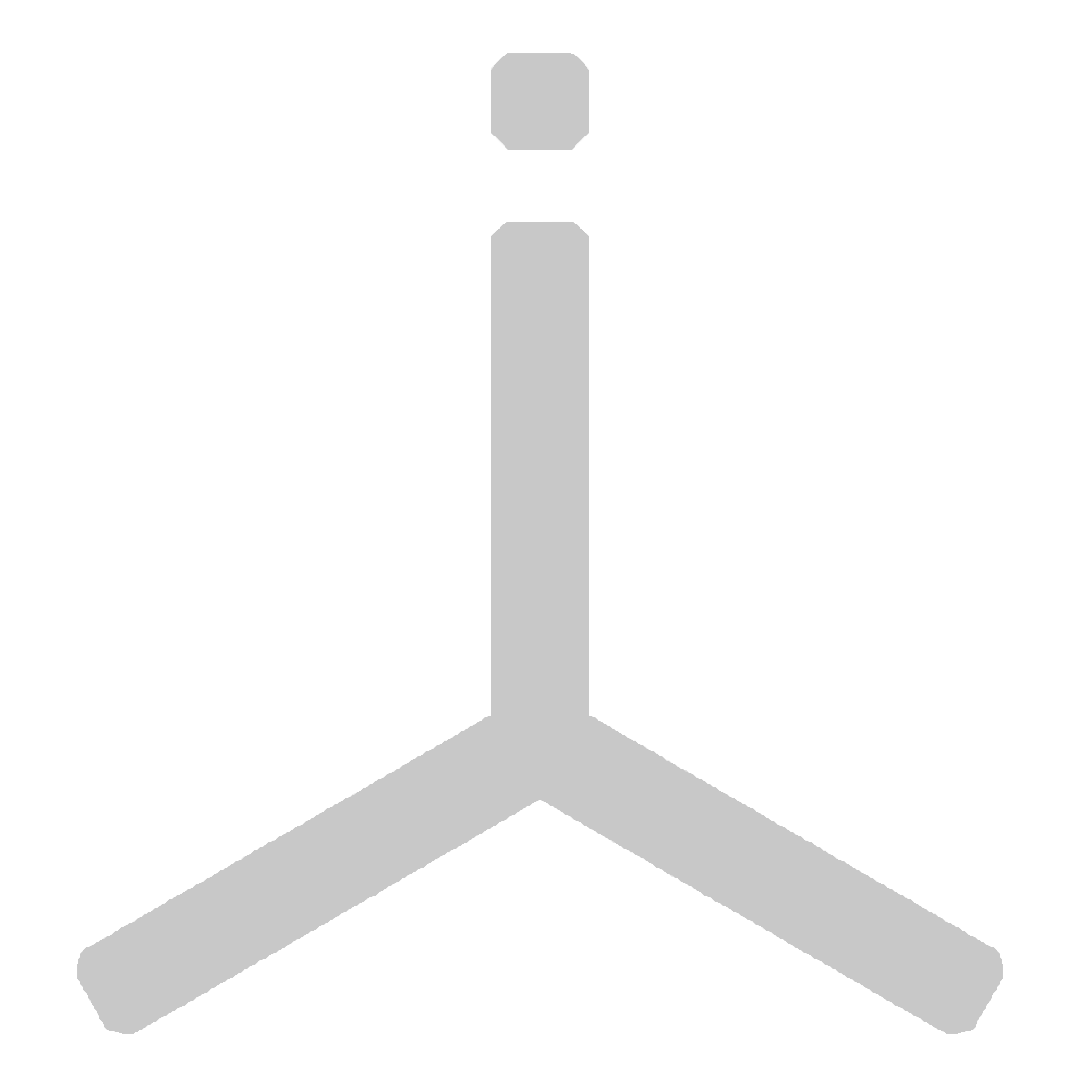
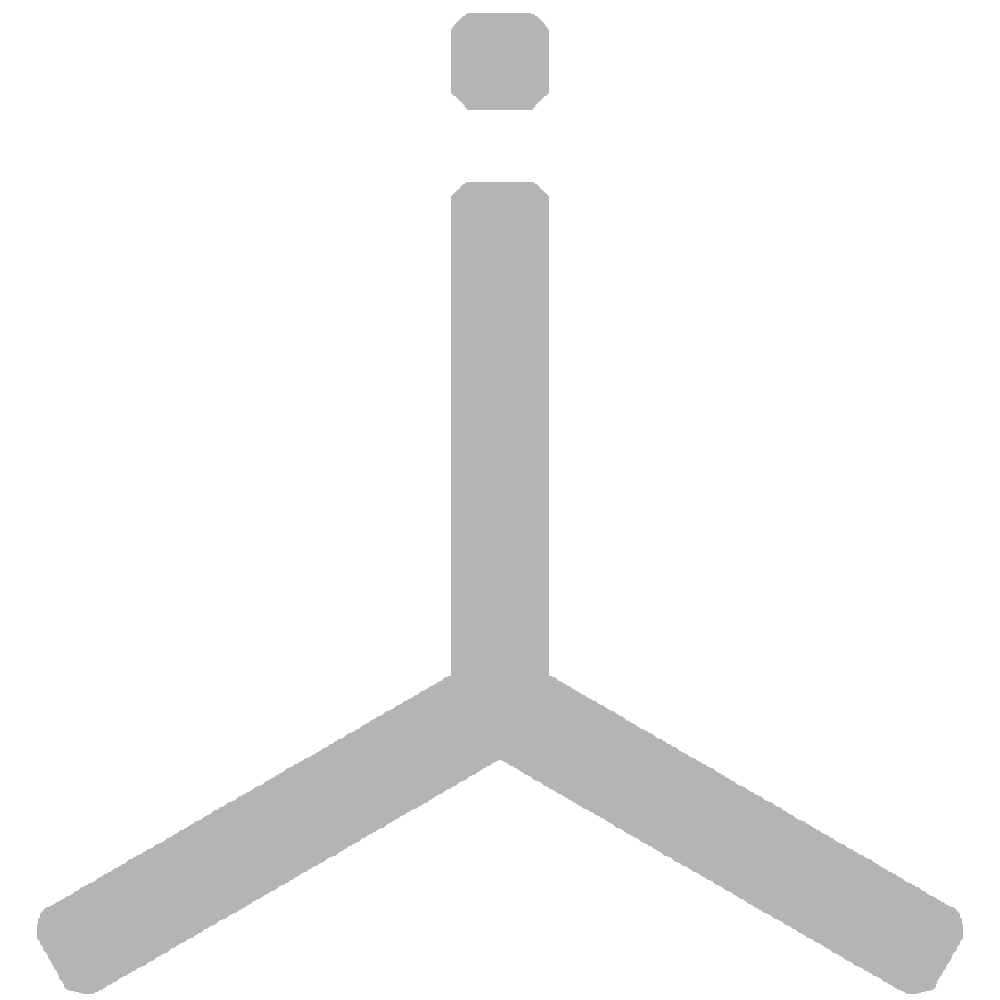
Added dynamic main ProgressBar GUI collapse

diff --git a/src/main/java/com/i_comit/windows/Main.java b/src/main/java/com/i_comit/windows/Main.java
@@ -4,6 +4,7 @@
  */
 package com.i_comit.windows;
 
+import static com.i_comit.windows.DriveCheck.goWebsite;
 import static com.i_comit.windows.Statics.*;
 import java.awt.Color;
 import java.awt.Toolkit;
@@ -27,9 +28,9 @@ import javax.swing.UnsupportedLookAndFeelException;
  */
 public class Main extends javax.swing.JFrame {
 
-    public static String root = "D:\\";
+    public static String root = "";
     public static String masterFolder = "--------\\";
-    public static String version = "1.6.6";
+    private static final String appVersion = "1.6.6";
 
     public Main() {
         root = Paths.get("").toAbsolutePath().toString();
@@ -54,7 +55,6 @@ public class Main extends javax.swing.JFrame {
                     ex.printStackTrace();
                 }
             }
-            setKeybinding();
             jStorePanel.setVisible(true);
             jSendPanel.setVisible(false);
             jReceivePanel.setVisible(false);
@@ -65,10 +65,10 @@ public class Main extends javax.swing.JFrame {
             if (!keyFile.exists()) {
                 jToolPanel.setVisible(false);
                 loginLabelVisibleBool(false);
-                jTextArea3.setCaretPosition(0);
-                this.setSize(540, 245);
+                this.setSize(540, 241);
                 this.setLocationRelativeTo(null);
             } else {
+                setKeybinding();
                 loginLabelVisibleBool(true);
                 jUsernameLabel.setText("enter username");
                 jPasswordLabel.setText("enter password");
@@ -198,7 +198,7 @@ public class Main extends javax.swing.JFrame {
         GUI.getGB();
         jEULAPanel1.setVisible(false);
         jEULAPanel.setVisible(false);
-        this.setSize(120, 245);
+        this.setSize(120, 241);
         this.setLocationRelativeTo(null);
         System.out.println("Your available Memory Heap is " + Memory.byteFormatter(Memory.heapSize));
         File rootFolder = Paths.get(root + masterFolder + folderName).toFile();
@@ -208,7 +208,7 @@ public class Main extends javax.swing.JFrame {
             GUI.labelCutterThread(jAlertLabel, "i-ncript folder created", 40, 40, 1200, false);
             rootFolder.mkdir();
         } else {
-            GUI.labelCutterThread(jAlertLabel, "developed by i-comit LLC", 40, 60, 1200, true);
+            GUI.labelCutterThread(jAlertLabel1, goWebsite(jAlertLabel1, "developed by ", "https://i-comit.com", "i-comit LLC"), 0, 20, 600, true);
         }
         if (!sendFolderF.exists()) {
             sendFolderF.mkdir();
@@ -279,6 +279,7 @@ public class Main extends javax.swing.JFrame {
         jProgressBar1 = new javax.swing.JProgressBar();
         jLabel1 = new javax.swing.JLabel();
         jLabel3 = new javax.swing.JLabel();
+        jAlertLabel1 = new javax.swing.JLabel();
         jAlertLabel = new javax.swing.JLabel();
         jCreationDateLabel = new javax.swing.JLabel();
         jFileSizeLabel = new javax.swing.JLabel();
@@ -319,7 +320,7 @@ public class Main extends javax.swing.JFrame {
 
         setDefaultCloseOperation(javax.swing.WindowConstants.EXIT_ON_CLOSE);
         setTitle("\ti-ncript™");
-        setIconImage(Toolkit.getDefaultToolkit().getImage(getClass().getResource("/i-comiti1.png")));
+        setIconImage(Toolkit.getDefaultToolkit().getImage(getClass().getResource("/i-comiti.png")));
         setMinimumSize(new java.awt.Dimension(295, 225));
         setModalExclusionType(java.awt.Dialog.ModalExclusionType.APPLICATION_EXCLUDE);
         setResizable(false);
@@ -443,13 +444,10 @@ public class Main extends javax.swing.JFrame {
                 .addGroup(jStorePanelLayout.createParallelGroup(javax.swing.GroupLayout.Alignment.LEADING)
                     .addComponent(jToggleButton1, javax.swing.GroupLayout.PREFERRED_SIZE, 22, javax.swing.GroupLayout.PREFERRED_SIZE)
                     .addComponent(jToggleButton2, javax.swing.GroupLayout.PREFERRED_SIZE, 22, javax.swing.GroupLayout.PREFERRED_SIZE))
+                .addGap(12, 12, 12)
                 .addGroup(jStorePanelLayout.createParallelGroup(javax.swing.GroupLayout.Alignment.LEADING)
-                    .addGroup(jStorePanelLayout.createSequentialGroup()
-                        .addGap(12, 12, 12)
-                        .addComponent(jRadioButton0))
-                    .addGroup(jStorePanelLayout.createSequentialGroup()
-                        .addGap(12, 12, 12)
-                        .addComponent(jRadioButton1))))
+                    .addComponent(jRadioButton0)
+                    .addComponent(jRadioButton1)))
         );
 
         jToolPanel.add(jStorePanel, new org.netbeans.lib.awtextra.AbsoluteConstraints(0, 0, -1, -1));
@@ -591,12 +589,17 @@ public class Main extends javax.swing.JFrame {
         jProgressBar1.setFont(new java.awt.Font("Polentical Neon", 0, 12)); // NOI18N
         jProgressBar1.setForeground(Color.WHITE);
         jProgressBar1.setBorder(null);
+        jProgressBar1.addChangeListener(new javax.swing.event.ChangeListener() {
+            public void stateChanged(javax.swing.event.ChangeEvent evt) {
+                jProgressBar1StateChanged(evt);
+            }
+        });
         getContentPane().add(jProgressBar1);
-        jProgressBar1.setBounds(22, 200, 724, 17);
+        jProgressBar1.setBounds(22, 204, 724, 17);
 
         jLabel1.setFont(new java.awt.Font("Polentical Neon", 0, 18)); // NOI18N
         jLabel1.setHorizontalAlignment(javax.swing.SwingConstants.LEFT);
-        jLabel1.setText(Main.version);
+        jLabel1.setText(Main.appVersion);
         jLabel1.setHorizontalTextPosition(javax.swing.SwingConstants.LEADING);
         getContentPane().add(jLabel1);
         jLabel1.setBounds(23, 4, 135, 30);
@@ -608,9 +611,13 @@ public class Main extends javax.swing.JFrame {
         getContentPane().add(jLabel3);
         jLabel3.setBounds(125, 4, 135, 30);
 
+        jAlertLabel1.setFont(new java.awt.Font("Polentical Neon", 0, 13)); // NOI18N
+        jAlertLabel1.setHorizontalAlignment(javax.swing.SwingConstants.CENTER);
+        getContentPane().add(jAlertLabel1);
+        jAlertLabel1.setBounds(21, 174, 236, 27);
+
         jAlertLabel.setFont(new java.awt.Font("Polentical Neon", 0, 13)); // NOI18N
         jAlertLabel.setHorizontalAlignment(javax.swing.SwingConstants.CENTER);
-        jAlertLabel.setText("jLabel2");
         getContentPane().add(jAlertLabel);
         jAlertLabel.setBounds(21, 174, 236, 27);
 
@@ -627,7 +634,7 @@ public class Main extends javax.swing.JFrame {
 
         jTabbedPane1.setTabPlacement(javax.swing.JTabbedPane.BOTTOM);
         jTabbedPane1.setFocusable(false);
-        jTabbedPane1.setPreferredSize(new java.awt.Dimension(225, 190));
+        jTabbedPane1.setPreferredSize(new java.awt.Dimension(224, 190));
 
         jPanel2.setBackground(new java.awt.Color(57, 57, 57));
         jPanel2.setBorder(javax.swing.BorderFactory.createLineBorder(new java.awt.Color(75, 110, 175)));
@@ -782,7 +789,7 @@ public class Main extends javax.swing.JFrame {
         jTabbedPane1.addTab("HELP", jPanel4);
 
         getContentPane().add(jTabbedPane1);
-        jTabbedPane1.setBounds(520, 12, 225, 190);
+        jTabbedPane1.setBounds(520, 12, 224, 190);
 
         jEULAPanel.setLayout(new org.netbeans.lib.awtextra.AbsoluteLayout());
 
@@ -888,7 +895,7 @@ public class Main extends javax.swing.JFrame {
         getContentPane().add(jScrollPane5);
         jScrollPane5.setBounds(22, 12, 225, 160);
 
-        setSize(new java.awt.Dimension(775, 232));
+        setSize(new java.awt.Dimension(775, 234));
         setLocationRelativeTo(null);
     }// </editor-fold>//GEN-END:initComponents
     //DECRYPT
@@ -904,12 +911,11 @@ public class Main extends javax.swing.JFrame {
     private void jButton1ActionPerformed(java.awt.event.ActionEvent evt) {//GEN-FIRST:event_jButton1ActionPerformed
         if (Login.loginCheck()) {
             if (Login.verifyLogin()) {
-                this.setSize(780, 245);
+                this.setSize(780, 241);
                 jLabel1.setLocation(266, 4);
                 jLabel3.setLocation(368, 4);
-                jAlertLabel.setLocation(268, 174);
+                jAlertLabel.setLocation(266, 174);
                 this.setLocationRelativeTo(null);
-                this.setSize(780, 260);
                 jScrollPane5.setVisible(true);
             }
         }
@@ -937,12 +943,11 @@ public class Main extends javax.swing.JFrame {
         if (evt.getKeyCode() == KeyEvent.VK_ENTER) {
             if (Login.loginCheck()) {
                 if (Login.verifyLogin()) {
-                    this.setSize(780, 245);
+                    this.setSize(780, 241);
                     jLabel1.setLocation(266, 4);
                     jLabel3.setLocation(368, 4);
-                    jAlertLabel.setLocation(268, 174);
+                    jAlertLabel.setLocation(266, 174);
                     this.setLocationRelativeTo(null);
-                    this.setSize(780, 260);
                     jScrollPane5.setVisible(true);
                 }
             }
@@ -1070,6 +1075,20 @@ public class Main extends javax.swing.JFrame {
         System.out.println("focus regained");
         jToolPanel.requestFocus();        // TODO add your handling code here:
     }//GEN-LAST:event_formMousePressed
+
+    public boolean progressbarBool = false;
+
+    private void jProgressBar1StateChanged(javax.swing.event.ChangeEvent evt) {//GEN-FIRST:event_jProgressBar1StateChanged
+        if (jProgressBar1.getValue() == 0) {
+            progressbarBool = false;
+            this.setSize(780, 241);
+        } else {
+            if (!progressbarBool) {
+                this.setSize(780, 266);
+                progressbarBool = true;
+            }
+        }
+    }//GEN-LAST:event_jProgressBar1StateChanged
     /**
      * @param args the command line arguments
      */
@@ -1105,6 +1124,7 @@ public class Main extends javax.swing.JFrame {
     public static javax.swing.ButtonGroup buttonGroup1;
     protected static javax.swing.JPanel dragDrop;
     public static javax.swing.JLabel jAlertLabel;
+    public static javax.swing.JLabel jAlertLabel1;
     public javax.swing.JButton jButton1;
     protected static javax.swing.JButton jButton2;
     private static javax.swing.JButton jButton3;

diff --git a/src/main/java/com/i_comit/windows/AES.java b/src/main/java/com/i_comit/windows/AES.java
@@ -178,8 +178,7 @@ class AES_T implements Runnable {
                             case 0 -> {
                                 Main.jProgressBar1.setStringPainted(true);
                                 Main.jProgressBar1.setString("0% | " + "0/" + AES_T.paths.size());
-
-                                GUI.labelCutterThread(jAlertLabel, "encrypting " + paths.size() + " files", 0, 15, 300, true);
+                                GUI.labelCutterThread(jAlertLabel, "encrypting " + paths.size() + " files", 0, 20, 2000, false);
                                 paths.forEach(x -> {
                                     if (x.toFile().length() > maxFileBytes) {
                                         if (GUI.t.isAlive()) {
@@ -221,8 +220,7 @@ class AES_T implements Runnable {
                             }
                             case 1 -> {
                                 jProgressBar1.setStringPainted(true);
-                                GUI.labelCutterThread(jAlertLabel, "decrypting " + paths.size() + " files", 0, 15, 300, false);
-
+                                GUI.labelCutterThread(jAlertLabel, "decrypting " + paths.size() + " files", 0, 20, 2000, false);
                                 paths.forEach(x -> {
                                     if (x.toFile().length() > maxFileBytes) {
                                         if (GUI.t.isAlive()) {
@@ -268,10 +266,12 @@ class AES_T implements Runnable {
                         if (!Main.jToggleButton1.isSelected()) {
                             switch (AESMode) {
                                 case 0 -> {
+                                    GUI.t.interrupt();
                                     GUI.labelCutterThread(jAlertLabel, "no files to encrypt", 10, 20, 400, false);
                                     Main.jRadioButton2.setEnabled(true);
                                 }
                                 case 1 -> {
+                                    GUI.t.interrupt();
                                     GUI.labelCutterThread(jAlertLabel, "no files to decrypt", 10, 20, 400, false);
                                     Main.jToggleButton1.setEnabled(true);
                                     Main.jRadioButton3.setEnabled(true);

diff --git a/src/main/java/com/i_comit/windows/DriveCheck.java b/src/main/java/com/i_comit/windows/DriveCheck.java
@@ -43,7 +43,7 @@ public class DriveCheck extends javax.swing.JFrame {
         }
     }
 
-    public static String goWebsite(JLabel website, final String leadingStr, final String url, String text) {
+    public static final String goWebsite(JLabel website, final String leadingStr, final String url, String text) {
         website.setText("<html>" + leadingStr + "<a href=\"\">" + text + "</a></html>");
         website.setCursor(new Cursor(Cursor.HAND_CURSOR));
         website.addMouseListener(new MouseAdapter() {
@@ -73,7 +73,7 @@ public class DriveCheck extends javax.swing.JFrame {
 
         setDefaultCloseOperation(javax.swing.WindowConstants.EXIT_ON_CLOSE);
         setTitle("i-ncript™");
-        setIconImage(Toolkit.getDefaultToolkit().getImage(getClass().getResource("/i-comiti1.png")));
+        setIconImage(Toolkit.getDefaultToolkit().getImage(getClass().getResource("/i-comiti.png")));
         setResizable(false);
 
         jLabel1.setFont(new java.awt.Font("Polentical Neon", 0, 14)); // NOI18N

diff --git a/src/main/java/com/i_comit/windows/GUI.java b/src/main/java/com/i_comit/windows/GUI.java
@@ -211,7 +211,6 @@ class labelCutter_T implements Runnable {
     }
 
     public static void labelCutter_T(JLabel jLabel, String labelMsg, int initSleep, int sleep, int pause, boolean stayAlive) {
-        jLabel.setVisible(true);
         jLabel.setText("");
         int msgL = labelMsg.length();
         try {
@@ -227,9 +226,6 @@ class labelCutter_T implements Runnable {
                     CharSequence cutLabel = labelMsg.subSequence(0, i);
                     jLabel.setText(cutLabel.toString());
                     Thread.sleep(sleep);
-                    if (i == 0) {
-                        jLabel.setVisible(false);
-                    }
                 }
             }
         } catch (InterruptedException ex) {

diff --git a/src/main/java/com/i_comit/windows/Login.java b/src/main/java/com/i_comit/windows/Login.java
@@ -275,6 +275,7 @@ public class Login {
                     Main.jSwitchMode.setToolTipText("current panel can encrypt & decrypt personal files");
                     Main.jLabel10.setToolTipText("drop box will encrypt & decrypt any files dropped here");
                     Main.jToolPanel.requestFocus();
+                    Main.jAlertLabel1.setVisible(false);
                     b = true;
                 }
             } else {
